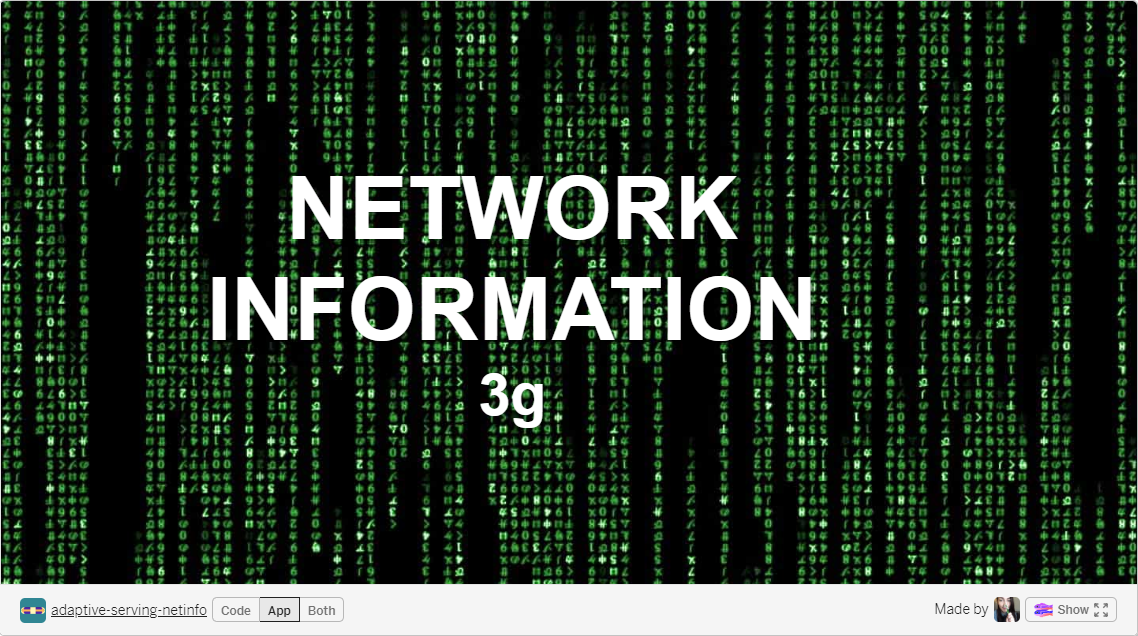
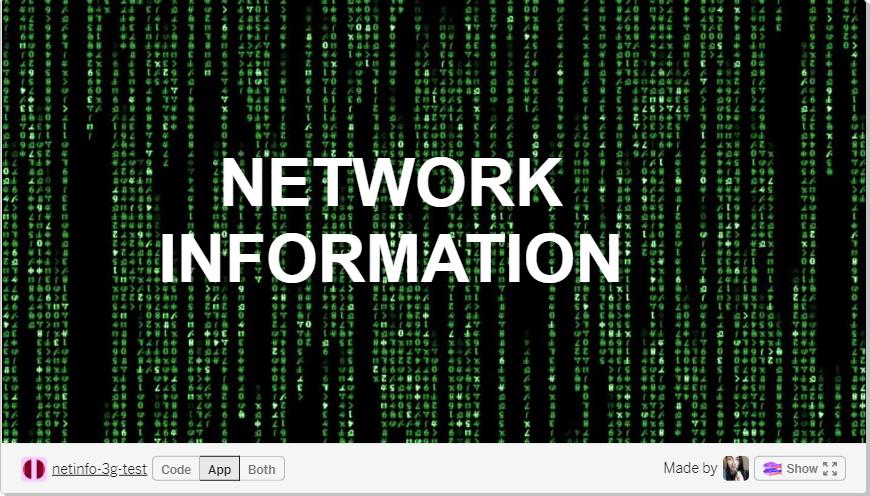
Rename codelab and add new screenshot

diff --git a/content/fast/adaptive-serving-based-on-network-quality/codelab-adapt-video-to-image-serving-based-on-network-quality.md b/content/fast/adaptive-serving-based-on-network-quality/codelab-adapt-video-to-image-serving-based-on-network-quality.md
@@ -5,8 +5,8 @@ author: mihajlija
 description: |
   Learn how to use the Network Information API to adapt
   your content based on the network quality.
-web_updated_on: 2019-01-31
-web_published_on: 2019-01-31
+web_updated_on: 2019-04-06
+web_published_on: 2019-04-01
 glitch: adaptive-serving-netinfo-starter
 ---
 
@@ -137,7 +137,7 @@ To test it yourself:
 
 Now reload the page with Fast 3G still enabled and the app will load an image in the background instead of the video: 
 
-
+<img class="screenshot" src="./netinfo_app_image.png" alt='Matrix-like image background with "NETWORK INFORMATION" text overlay'>
 
 ## Extra Credit: Respond to changes
 
